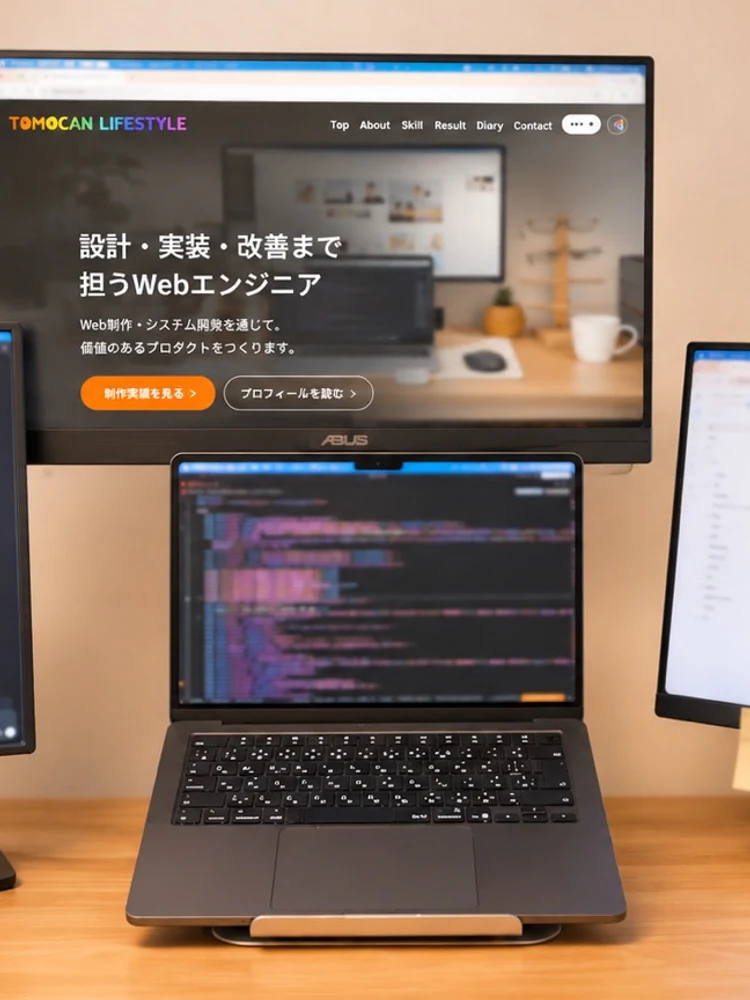
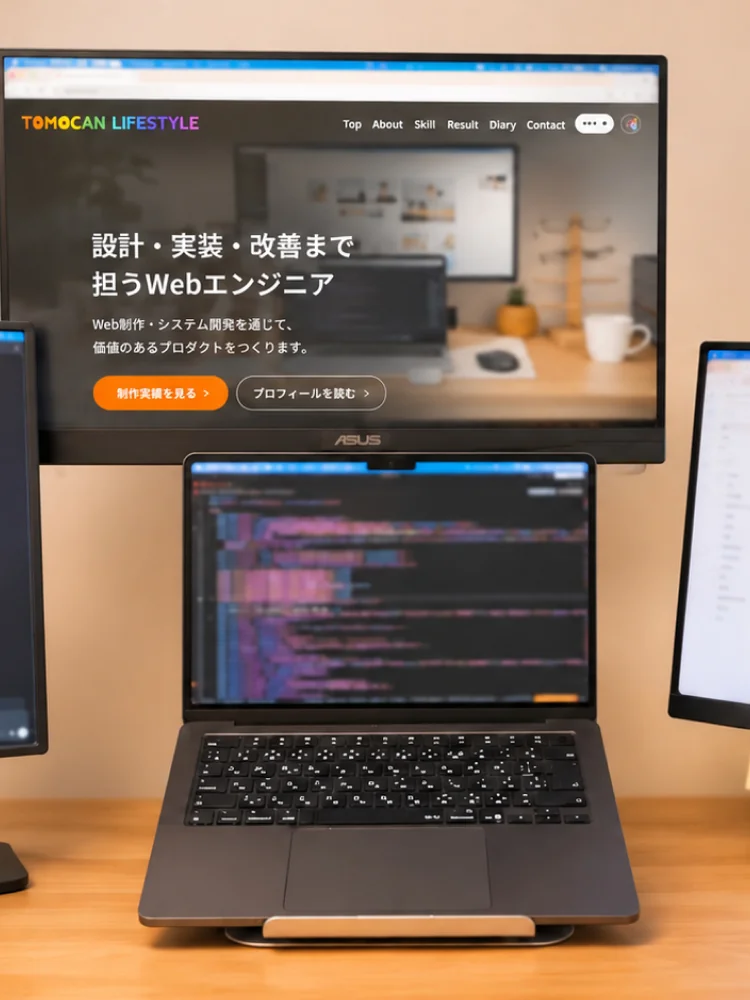
style: replace homepage KV with supplied desktop and mobile photos

diff --git a/app/page.tsx b/app/page.tsx
@@ -17,10 +17,10 @@ export default async function Home() {
   ]);
   const {
     props: { srcSet: desktopHeroSrcSet, ...desktopHeroProps },
-  } = getImageProps({ src: '/img/pages/top/img_hero.webp', alt: '', width: 2732, height: 1000, sizes: '100vw', loading: 'eager', fetchPriority: 'high' });
+  } = getImageProps({ src: '/img/pages/top/img_hero.webp?v=61a7efdf12f4', alt: '', width: 2732, height: 1000, sizes: '100vw', loading: 'eager', fetchPriority: 'high' });
   const {
     props: { srcSet: mobileHeroSrcSet },
-  } = getImageProps({ src: '/img/pages/top/img_hero_sp.webp', alt: '', width: 750, height: 1000, sizes: '100vw', loading: 'eager', fetchPriority: 'high' });
+  } = getImageProps({ src: '/img/pages/top/img_hero_sp.webp?v=725817182b45', alt: '', width: 750, height: 1000, sizes: '100vw', loading: 'eager', fetchPriority: 'high' });
 
   return (
     <>
